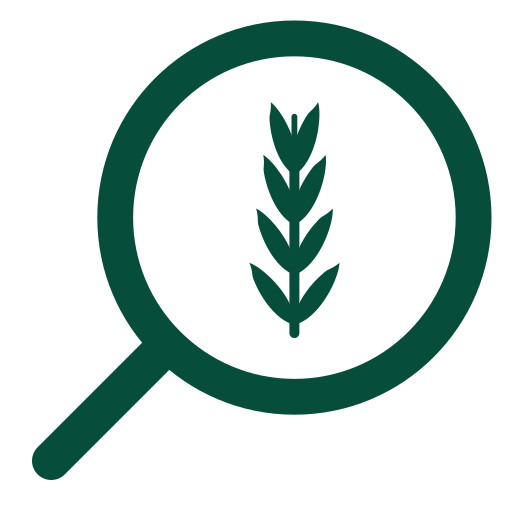
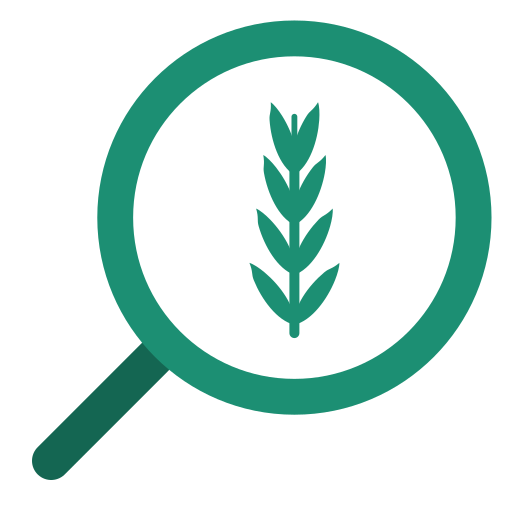
Add files via upload

Changed region(s): [[0.1875, 0.0312, 0.9688, 0.8125], [0.4688, 0.1875, 0.6562, 0.6562]]

diff --git a/index.html b/index.html
@@ -145,7 +145,7 @@
 
   .tab-switch{
     display:flex;
-    background: #043528;
+    background: #1A5C4B;
     border-radius: 12px;
     padding: 4px;
     gap: 4px;
@@ -571,19 +571,19 @@
 <header>
   <div class="brand-row">
     <div class="brand-mark"><svg viewBox="150 130 400 400" xmlns="http://www.w3.org/2000/svg" role="img" aria-label="Logo EasyEat">
-<line x1="271" y1="409" x2="190" y2="490" stroke="#F8E7C9" stroke-width="30" stroke-linecap="round"/>
-<circle cx="380" cy="300" r="140" fill="#FFFFFF" stroke="#F8E7C9" stroke-width="28"/>
+<line x1="271" y1="409" x2="190" y2="490" stroke="#146652" stroke-width="30" stroke-linecap="round"/>
+<circle cx="380" cy="300" r="140" fill="#FFFFFF" stroke="#1C8F73" stroke-width="28"/>
 <g transform="translate(-114,-58.28) scale(1.3)">
-<line x1="380" y1="235" x2="380" y2="345" stroke="#064E3B" stroke-width="6" stroke-linecap="round"/>
-<line x1="380" y1="215" x2="380" y2="235" stroke="#064E3B" stroke-width="3.5" stroke-linecap="round"/>
-<g transform="translate(380,250) rotate(18)"><path d="M0,0 C7,-8 7,-24 4,-36 C3,-40 1.5,-44 0,-46 C-1.5,-40 -3,-40 -4,-36 C-7,-24 -7,-8 0,0 Z" fill="#064E3B"/></g>
-<g transform="translate(380,250) rotate(-18)"><path d="M0,0 C7,-8 7,-24 4,-36 C3,-40 1.5,-44 0,-46 C-1.5,-40 -3,-40 -4,-36 C-7,-24 -7,-8 0,0 Z" fill="#064E3B"/></g>
-<g transform="translate(380,280) rotate(24)"><path d="M0,0 C7,-8 7,-24 4,-36 C3,-40 1.5,-44 0,-46 C-1.5,-40 -3,-40 -4,-36 C-7,-24 -7,-8 0,0 Z" fill="#064E3B"/></g>
-<g transform="translate(380,280) rotate(-24)"><path d="M0,0 C7,-8 7,-24 4,-36 C3,-40 1.5,-44 0,-46 C-1.5,-40 -3,-40 -4,-36 C-7,-24 -7,-8 0,0 Z" fill="#064E3B"/></g>
-<g transform="translate(380,310) rotate(30)"><path d="M0,0 C7,-8 7,-24 4,-36 C3,-40 1.5,-44 0,-46 C-1.5,-40 -3,-40 -4,-36 C-7,-24 -7,-8 0,0 Z" fill="#064E3B"/></g>
-<g transform="translate(380,310) rotate(-30)"><path d="M0,0 C7,-8 7,-24 4,-36 C3,-40 1.5,-44 0,-46 C-1.5,-40 -3,-40 -4,-36 C-7,-24 -7,-8 0,0 Z" fill="#064E3B"/></g>
-<g transform="translate(380,340) rotate(36)"><path d="M0,0 C7,-8 7,-24 4,-36 C3,-40 1.5,-44 0,-46 C-1.5,-40 -3,-40 -4,-36 C-7,-24 -7,-8 0,0 Z" fill="#064E3B"/></g>
-<g transform="translate(380,340) rotate(-36)"><path d="M0,0 C7,-8 7,-24 4,-36 C3,-40 1.5,-44 0,-46 C-1.5,-40 -3,-40 -4,-36 C-7,-24 -7,-8 0,0 Z" fill="#064E3B"/></g>
+<line x1="380" y1="235" x2="380" y2="345" stroke="#1C8F73" stroke-width="6" stroke-linecap="round"/>
+<line x1="380" y1="215" x2="380" y2="235" stroke="#1C8F73" stroke-width="3.5" stroke-linecap="round"/>
+<g transform="translate(380,250) rotate(18)"><path d="M0,0 C7,-8 7,-24 4,-36 C3,-40 1.5,-44 0,-46 C-1.5,-40 -3,-40 -4,-36 C-7,-24 -7,-8 0,0 Z" fill="#1C8F73"/></g>
+<g transform="translate(380,250) rotate(-18)"><path d="M0,0 C7,-8 7,-24 4,-36 C3,-40 1.5,-44 0,-46 C-1.5,-40 -3,-40 -4,-36 C-7,-24 -7,-8 0,0 Z" fill="#1C8F73"/></g>
+<g transform="translate(380,280) rotate(24)"><path d="M0,0 C7,-8 7,-24 4,-36 C3,-40 1.5,-44 0,-46 C-1.5,-40 -3,-40 -4,-36 C-7,-24 -7,-8 0,0 Z" fill="#1C8F73"/></g>
+<g transform="translate(380,280) rotate(-24)"><path d="M0,0 C7,-8 7,-24 4,-36 C3,-40 1.5,-44 0,-46 C-1.5,-40 -3,-40 -4,-36 C-7,-24 -7,-8 0,0 Z" fill="#1C8F73"/></g>
+<g transform="translate(380,310) rotate(30)"><path d="M0,0 C7,-8 7,-24 4,-36 C3,-40 1.5,-44 0,-46 C-1.5,-40 -3,-40 -4,-36 C-7,-24 -7,-8 0,0 Z" fill="#1C8F73"/></g>
+<g transform="translate(380,310) rotate(-30)"><path d="M0,0 C7,-8 7,-24 4,-36 C3,-40 1.5,-44 0,-46 C-1.5,-40 -3,-40 -4,-36 C-7,-24 -7,-8 0,0 Z" fill="#1C8F73"/></g>
+<g transform="translate(380,340) rotate(36)"><path d="M0,0 C7,-8 7,-24 4,-36 C3,-40 1.5,-44 0,-46 C-1.5,-40 -3,-40 -4,-36 C-7,-24 -7,-8 0,0 Z" fill="#1C8F73"/></g>
+<g transform="translate(380,340) rotate(-36)"><path d="M0,0 C7,-8 7,-24 4,-36 C3,-40 1.5,-44 0,-46 C-1.5,-40 -3,-40 -4,-36 C-7,-24 -7,-8 0,0 Z" fill="#1C8F73"/></g>
 </g>
 </svg></div>
     <h1>EasyEat</h1>
